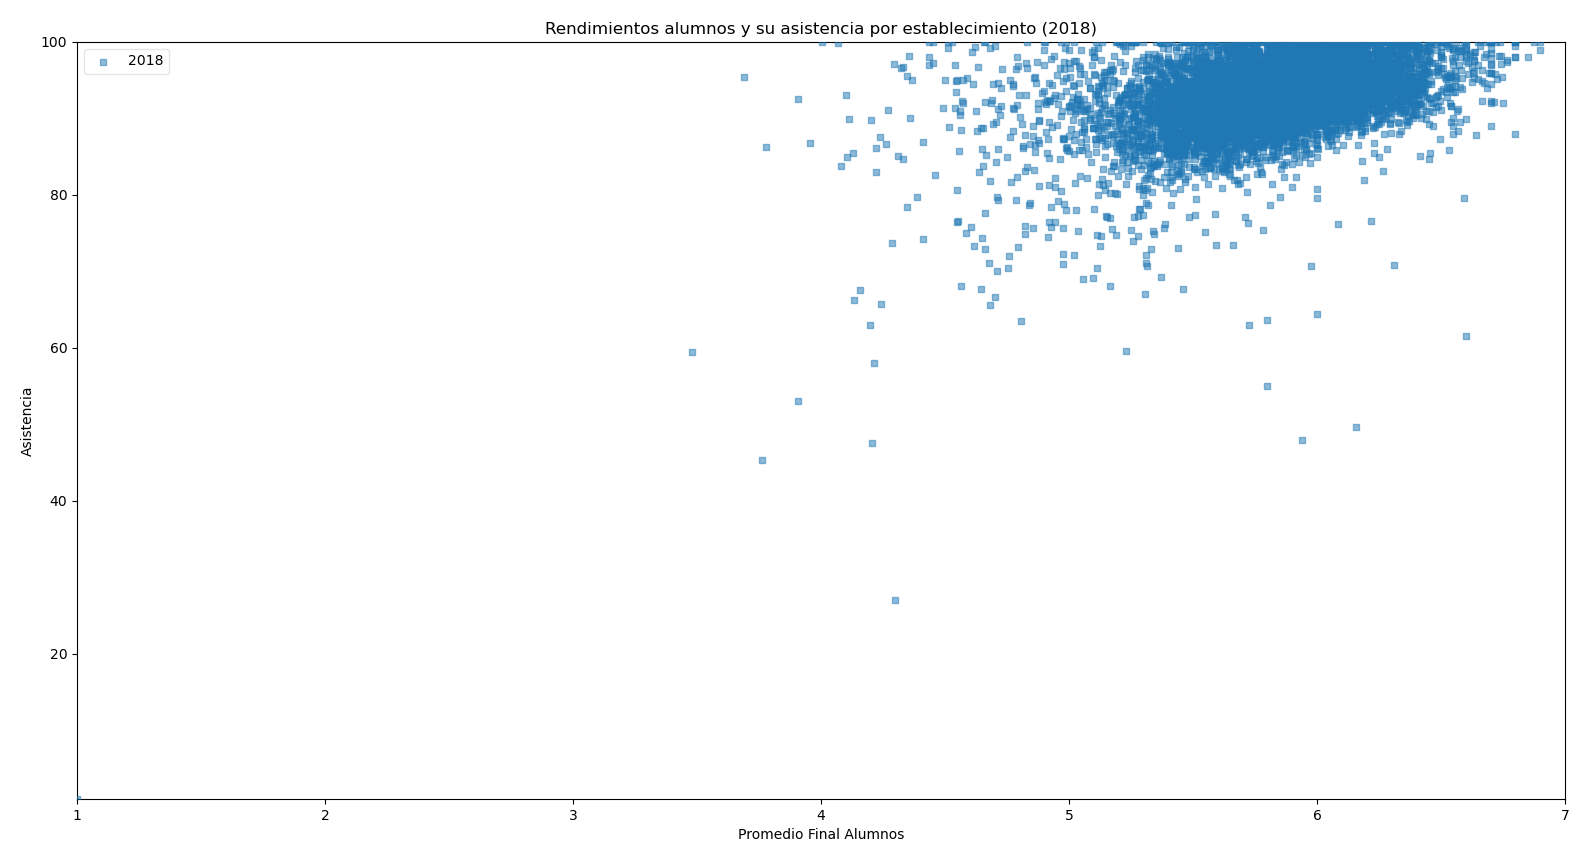
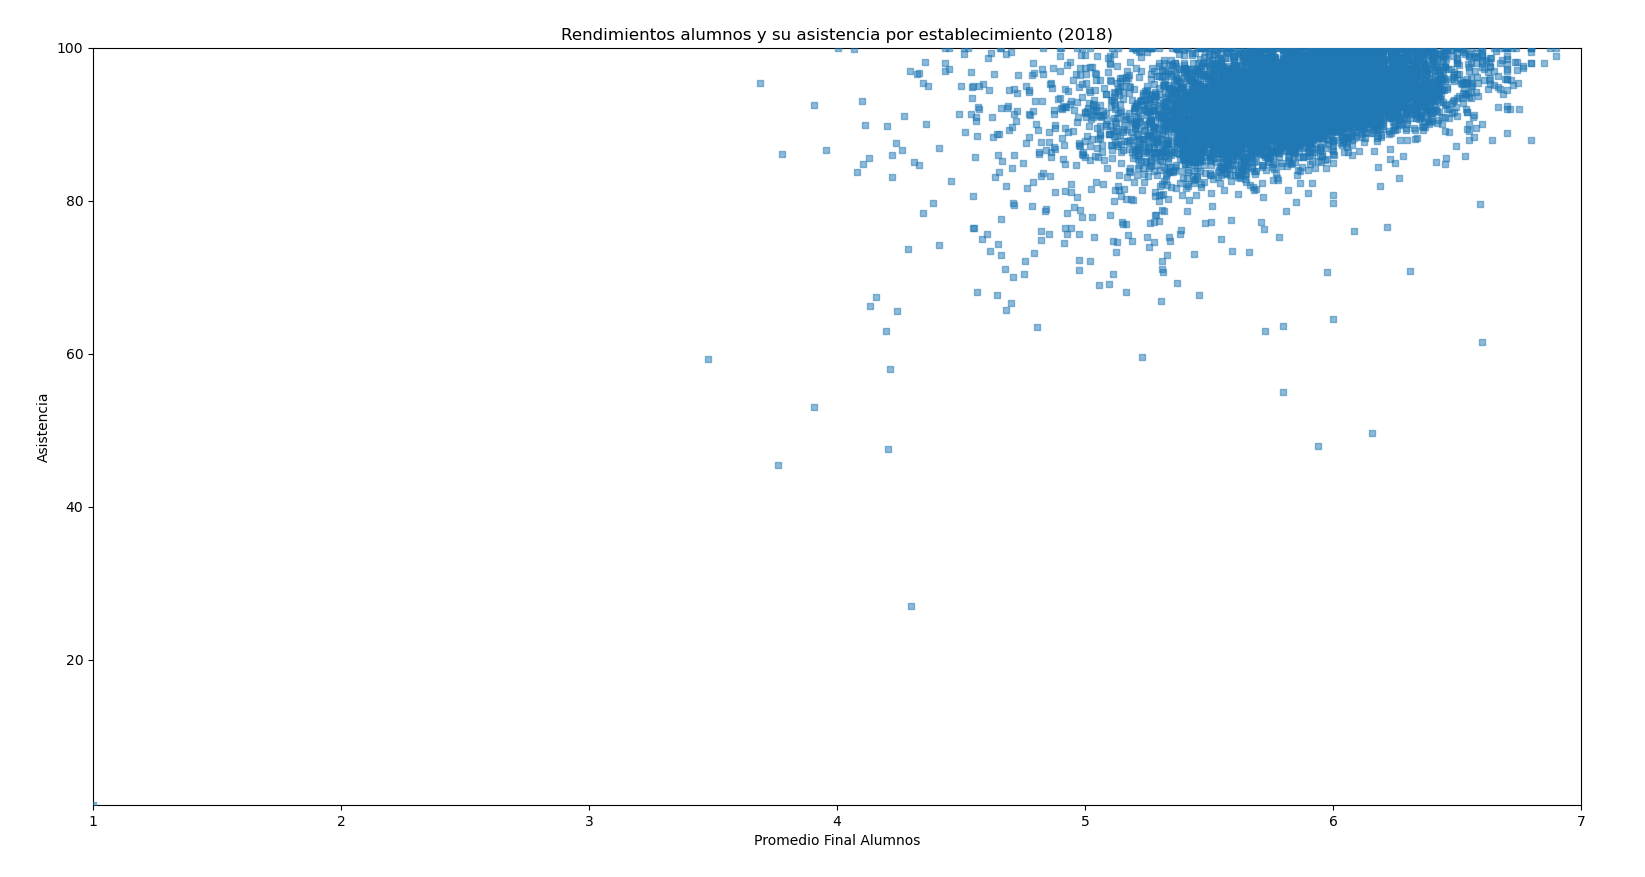
modificando grafico de comunas

diff --git a/src/main/python/alumnosvsdocentes/scatterplot_comunas_super.py b/src/main/python/alumnosvsdocentes/scatterplot_comunas_super.py
@@ -1,0 +1,88 @@
+import matplotlib.pyplot as plt
+import pandas as pd
+import numpy as np
+import matplotlib.cm as cm
+import random
+
+
+# x = regiones (codigo_region)
+# y = promedio (avg_grades)
+
+df = pd.read_csv(r"D:\\Documentos_U\\2020-1\\Patos\\Proyecto\\chilean-student-performance\\out\\alumnosvsdocentes\\comunasmetropolitana\\results-alumnosvsdocentes-comunas.csv", sep = ';')
+
+
+
+#df.plot()  # plots all columns against index
+#df.plot(kind='scatter',x='codigo_region',y='avg_grades', ) # scatter plot
+#df.plot(kind='density')  # estimate density function
+
+co = [(1, 0.5, 0),
+      (0.85, 0.19, 0.23),
+      (0.15, 0.23, 0.73),
+      (0.13, 0.53, 0.21),
+      (0.5, 0.3, 0.9)]
+
+
+cat_1 = df[df['year']==2013]
+
+
+cat_2 = df[df['year']==2014]
+
+
+cat_3 = df[df['year']==2015]
+
+
+cat_4 = df[df['year']==2016]
+
+
+cat_5 = df[df['year']==2017]
+
+
+cat_6 = df[df['year']==2018]
+
+
+color=(random.random(), random.random(), random.random(), 1.0)
+
+colormap = np.array(['r', 'g', 'b'])
+
+colors = cm.rainbow(np.linspace(0, 1, 15))
+
+for i in range(13101,13133):
+    X = df[df['cod_comuna']==i][df['year']==2013]['avg_grades_docentes']
+
+    #X = X + np.random.normal(size=X.shape)*0.07
+    Y = df[df['cod_comuna']==i][df['year']==2013]['avg_grades_alumnos']
+    #Y = Y + np.random.normal(size=X.shape)*0.03
+    if (i == 13113 or i == 13114 or i == 13115 or i == 13123 or i == 13132):
+        marker='*'
+    else:
+        marker='.'
+    plt.scatter(X, Y,color="b",alpha=0.5, label=df['nomb_comuna'], zorder=i,  marker=marker, s=80)
+
+
+for i in range(13101,13133):
+    X = df[df['cod_comuna']==i][df['year']==2017]['avg_grades_docentes']
+
+    #X = X + np.random.normal(size=X.shape)*0.07
+    Y = df[df['cod_comuna']==i][df['year']==2017]['avg_grades_alumnos']
+    #Y = Y + np.random.normal(size=X.shape)*0.03
+    if (i == 13113 or i == 13114 or i == 13115 or i == 13123 or i == 13132):
+        marker='*'
+    else:
+        marker='.'
+    plt.scatter(X, Y,color = "r",alpha=0.5, label=df['nomb_comuna'], zorder=i,  marker=marker, s=80)
+
+
+
+
+plt.xlim([2,3])
+plt.ylim([5,6.5])
+plt.xlabel("Promedio Docentes")
+plt.ylabel("Promedio Alumnos")
+plt.title("Rendimientos alumnos y docentes por comunas de santiago (2017)")
+plt.legend(['Santiago','Cerrillos','Cerro Navia','Conchali','El Bosque','E. Central','Huechuraba','Indepen.','La Cisterna','La Florida','La Granja','La Pintana','La Reina', 'Las Condes','Lo Barnechea','Lo Espejo','Lo Prado','Macul','Maipú','Ñuñoa','P.A.C','Peñalolen','Providencia','Pudahuel','Quilicura','Q. Normal','Recoleta','Renca', 'San Joaquín','San Miguel','San Ramon','Vitacura']
+            , framealpha=1)
+
+
+
+plt.show()

diff --git a/src/main/python/alumnos/barplot_yearly_grades.py b/src/main/python/alumnos/barplot_yearly_grades.py
@@ -44,6 +44,7 @@ X = df['year']
 #X = X + np.random.normal(size=X.shape)*0.07
 Y = df['avg_grades']
 #Y = Y + np.random.normal(size=X.shape)*0.03
+plt.xticks(range(2002, 2020, 2))
 plt.bar(X, Y, width=0.8, bottom=None, align='center', data=None, color =([255/255, 109/255, 197/255]))
 
 

diff --git a/src/main/python/alumnos/scatterplot_establecimientos.py b/src/main/python/alumnos/scatterplot_establecimientos.py
@@ -54,8 +54,6 @@ plt.ylim([1,100])
 plt.xlabel("Promedio Final Alumnos")
 plt.ylabel("Asistencia")
 plt.title("Rendimientos alumnos y su asistencia por establecimiento (2018)")
-plt.legend(['2018'
-            ], framealpha=0.5)
 
 
 plt.show()
